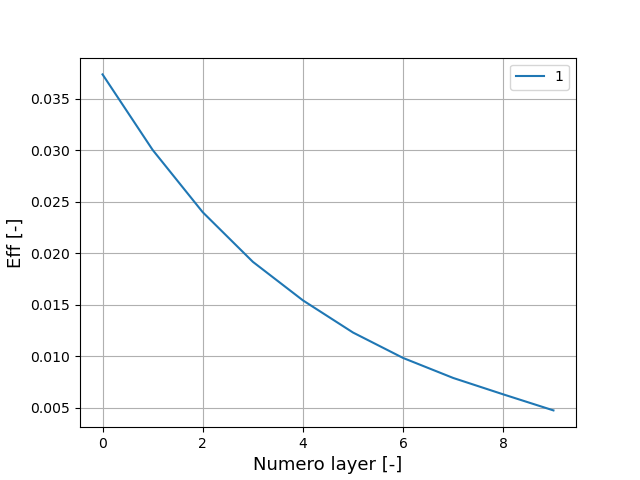
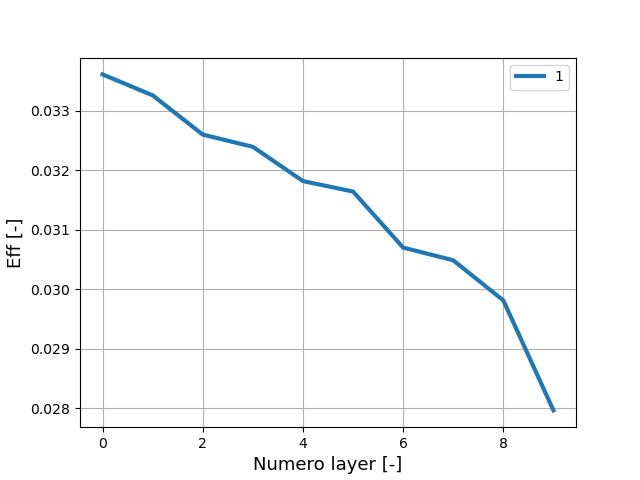
updtae

diff --git a/Sim_Boro_carbide/draw_graph.py b/Sim_Boro_carbide/draw_graph.py
@@ -14,18 +14,23 @@ def draw_histo(filename,i,x_col,y_col):
     
     ev =0
     
-    if i==1:
-        ev = 10000000
-    if i==2:
+    if i==1 or i==2:
         ev = 1000000
+    if i==3:
+        ev = 10000000
     
     for a,b in zip(df["alfa"],df["litio"]):
         y_to_plot.append((a+b)/ev)
         # ev=ev-(a+b)
     
+    line_stype="-"
+
+    line_wif = 3
     
-    
-    plt.plot(df[x_col],y_to_plot,label=i)
+    if i==2:
+        line_stype="--"
+        line_wif = 1
+    plt.plot(df[x_col],y_to_plot,label=i,ls=line_stype,lw=line_wif)
     plt.ylabel("Eff [-]",fontsize=13)
     plt.xlabel("Numero layer [-]",fontsize=13)
     plt.grid()

diff --git a/Sim_Boro_carbide/source/exampleB1.cc b/Sim_Boro_carbide/source/exampleB1.cc
@@ -64,7 +64,7 @@ int main(int argc,char** argv)
   //
   auto* runManager =
     G4RunManagerFactory::CreateRunManager(G4RunManagerType::Default);
-  runManager->SetNumberOfThreads(8);  //PER LANCIARE IN PARALLELO DECOMMENTARE
+  runManager->SetNumberOfThreads(4);  //PER LANCIARE IN PARALLELO DECOMMENTARE
   // Set mandatory initialization classes
   //
   // Detector construction
